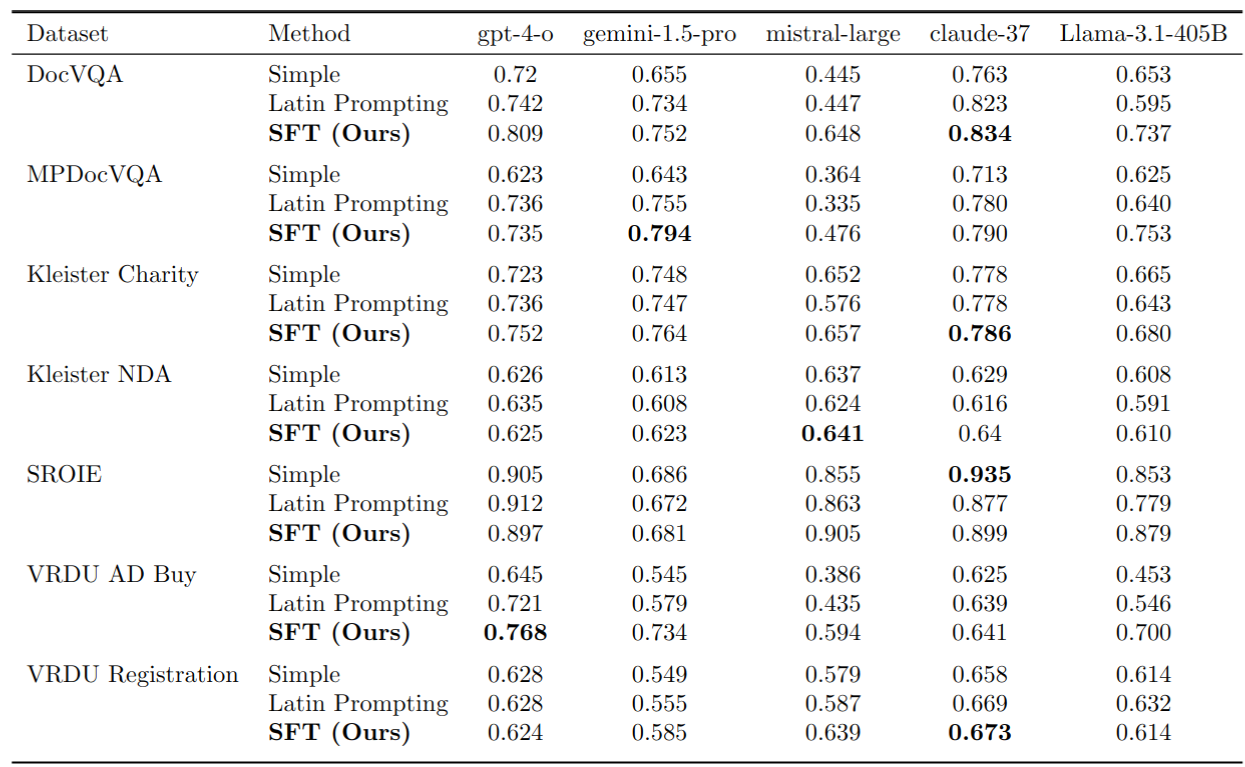
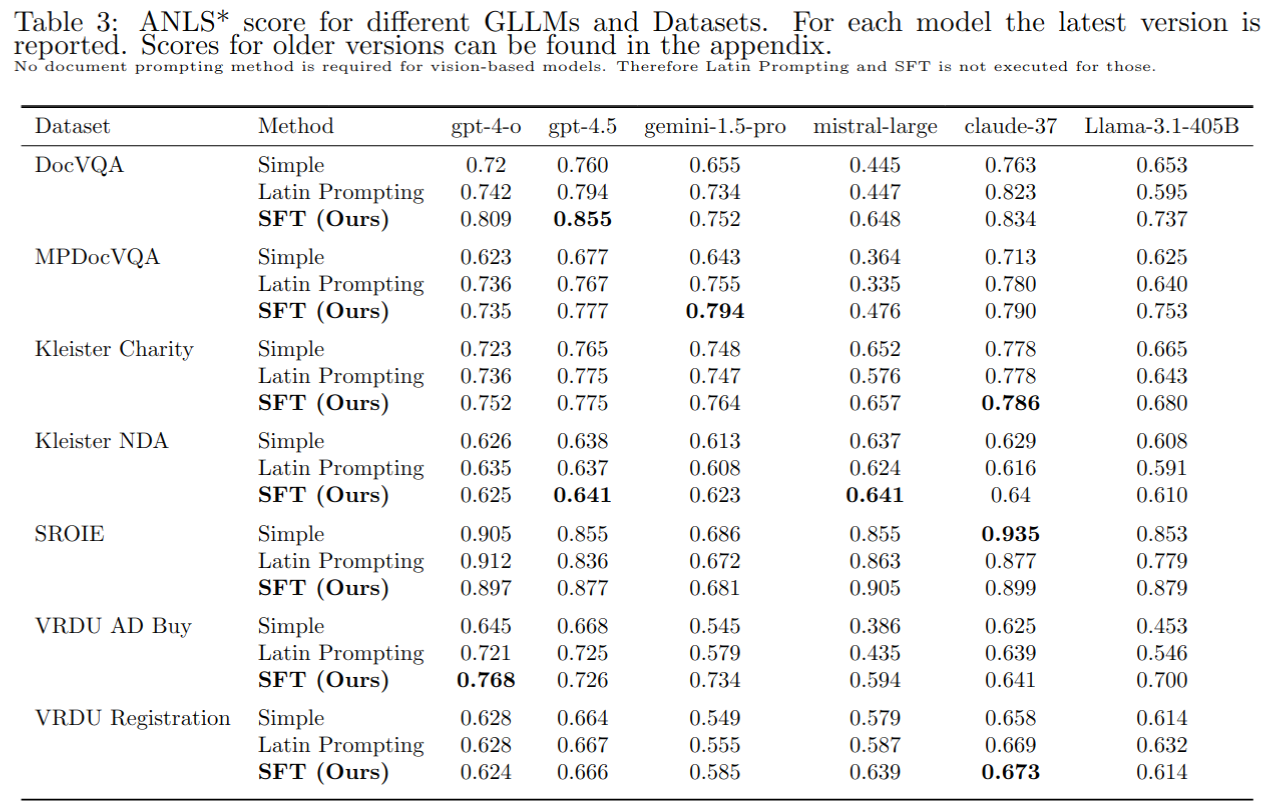
Update README with new benchmarks for GPT-4.5

diff --git a/README.md b/README.md
@@ -1,5 +1,7 @@
 # ANLS ★
 **🌟 A Universal Metric for Generative Large Language Models 🌟**
+*Now with benchmarks for gpt-4.5 preview as well as claude-37 and llama-3.1-405B*
+
 
 <div align="center">
 
@@ -16,6 +18,7 @@
         archivePrefix={arXiv},
         primaryClass={cs.CL}
     }
+
 
 ## How to use the ANLS* score?
 1. `pip install anls_star`
